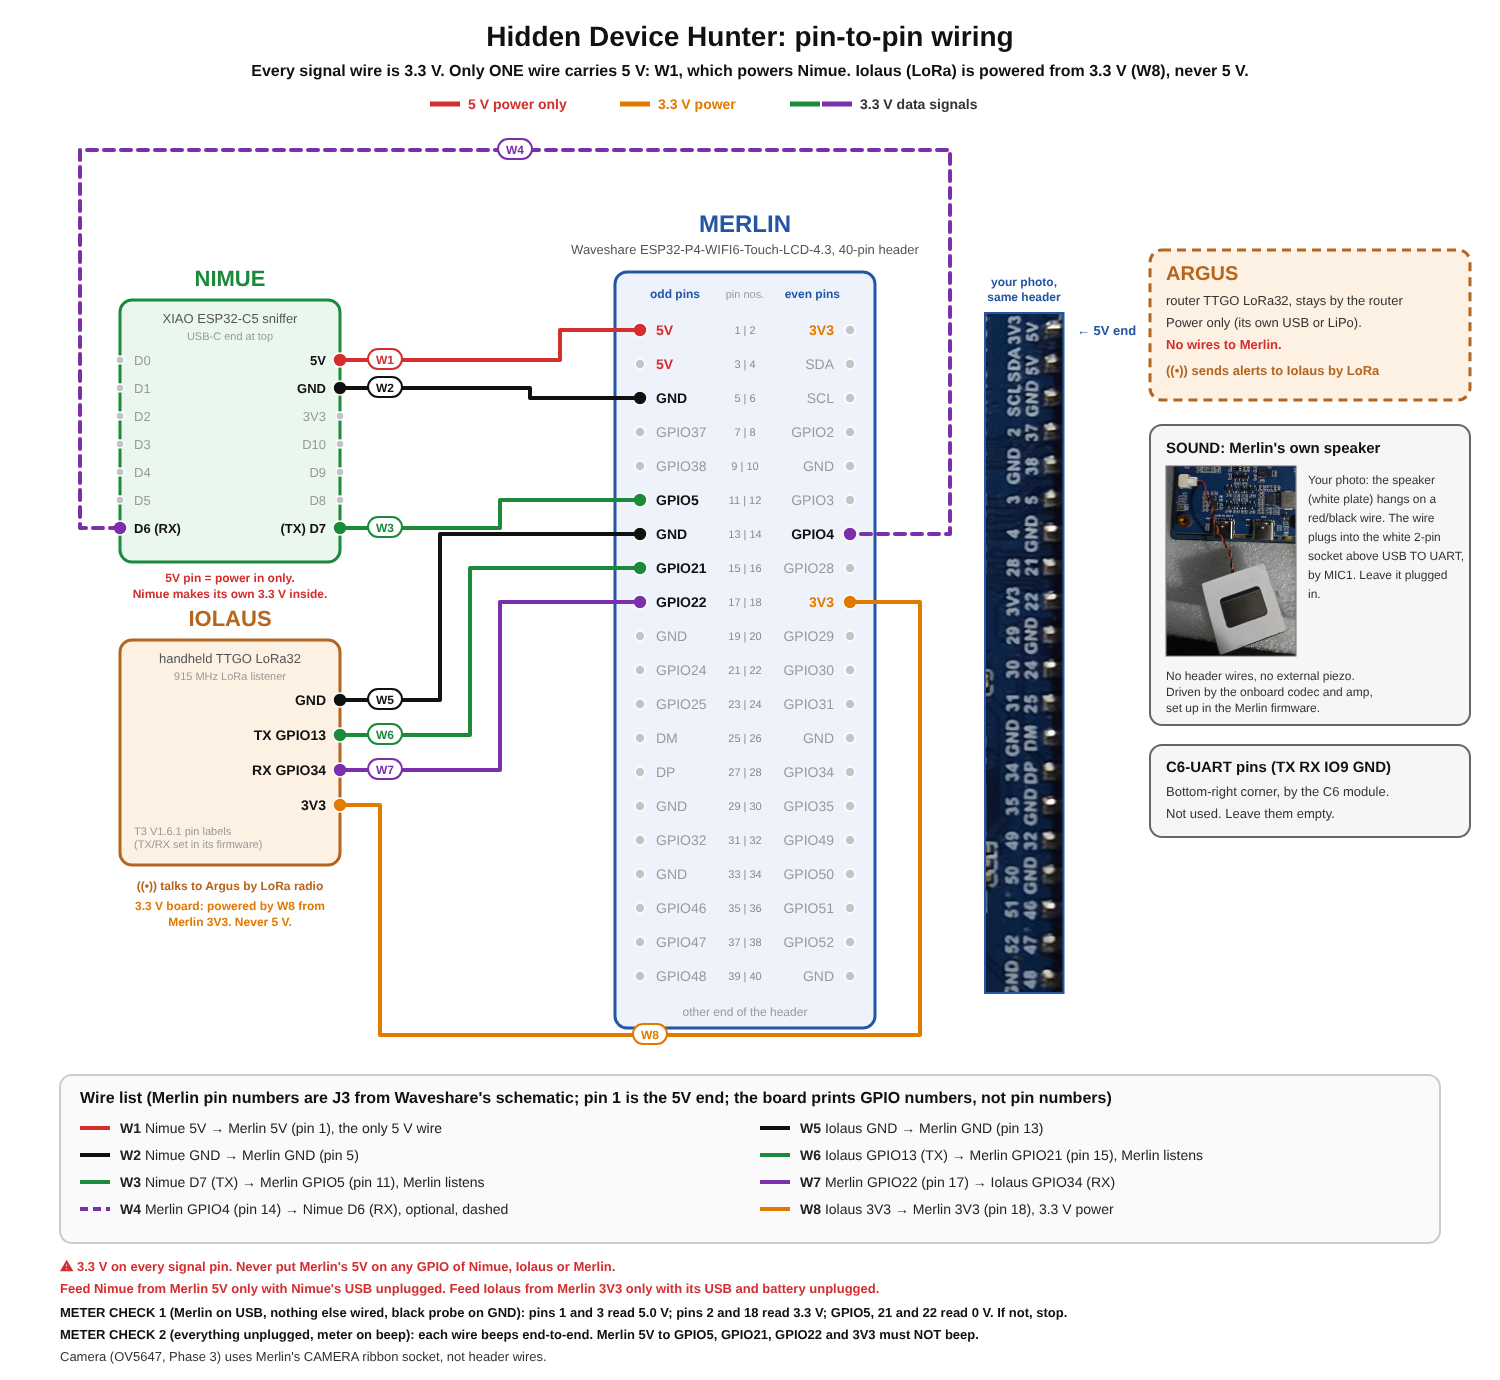
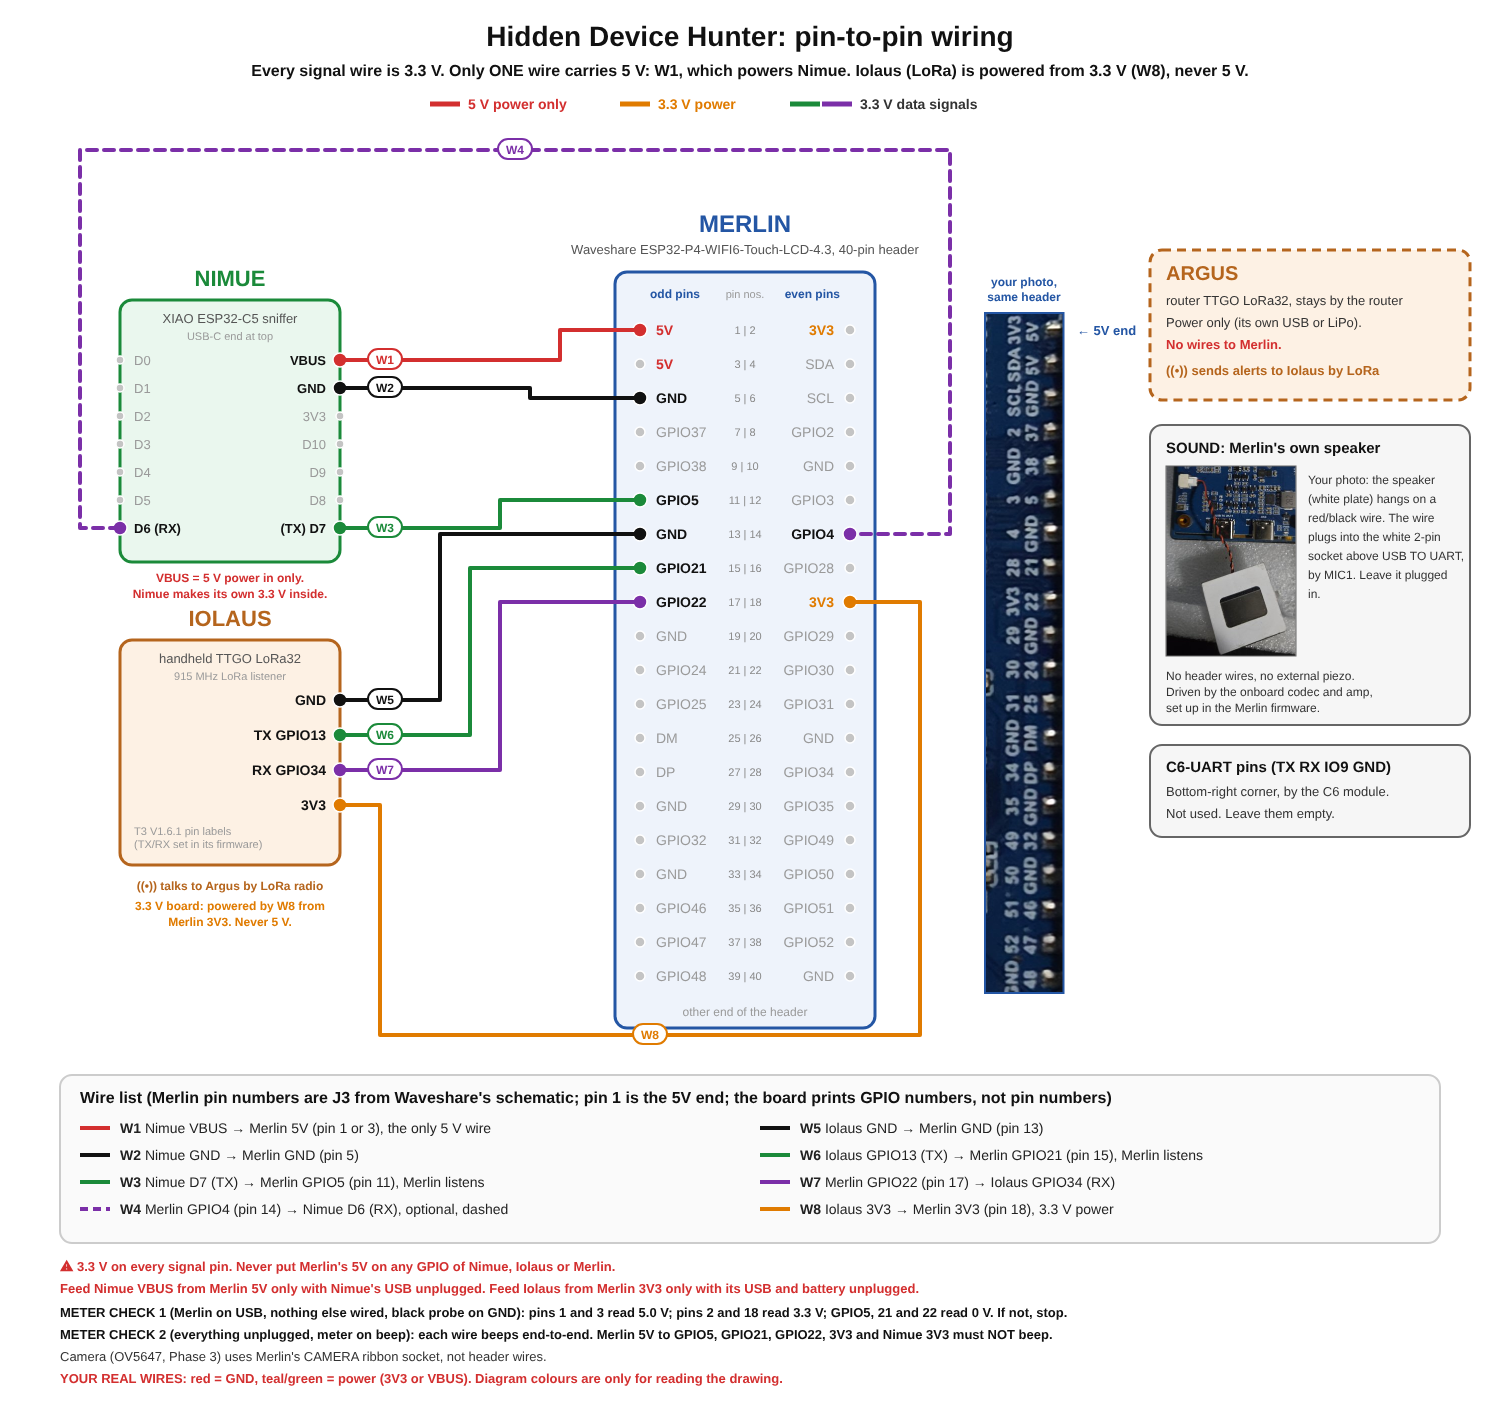
Label Nimue power pin VBUS (as printed on the C5), add real wire colour note
Claude-Session: https://claude.ai/code/session_01VtBEMtpb4Bdzu3QhNEMonw

diff --git a/tools/diagrams/merlin_wiring.py b/tools/diagrams/merlin_wiring.py
@@ -13,7 +13,7 @@ strip_jpg, spk_jpg, out = sys.argv[1:4]
 def b64(p):
     return base64.b64encode(open(p, "rb").read()).decode()
 
-W, H = 1500, 1380
+W, H = 1500, 1404
 RED, BLK, GRN, PUR, GRY = "#d32f2f", "#111111", "#1b8a3a", "#7b2fa8", "#9a9a9a"
 ORG = "#e07b00"  # 3.3 V power
 s = []
@@ -96,7 +96,7 @@ text((NX0 + NX1) / 2, 286, "NIMUE", 22, "#1b8a3a", "bold", "middle")
 text((NX0 + NX1) / 2, 323, "XIAO ESP32-C5 sniffer", 13, "#555", anchor="middle")
 text((NX0 + NX1) / 2, 340, "USB-C end at top", 11, GRY, anchor="middle")
 left = ["D0", "D1", "D2", "D3", "D4", "D5", "D6"]
-right = ["5V", "GND", "3V3", "D10", "D9", "D8", "D7"]
+right = ["VBUS", "GND", "3V3", "D10", "D9", "D8", "D7"]
 for k in range(7):
     lu = k == 6
     ru = k in (0, 1, 6)
@@ -106,7 +106,7 @@ for k in range(7):
     dot(NX1, NY[k], {0: RED, 1: BLK, 6: GRN}.get(k, "#c4c4c4"), 7 if ru else 4)
 
 wire([(NX1, NY[0]), (560, NY[0]), (560, y(0)), (AX, y(0))], RED, tag="W1", tag_at=(385, NY[0]))
-text((NX0 + NX1) / 2, 582, "5V pin = power in only.", 12, RED, "bold", "middle")
+text((NX0 + NX1) / 2, 582, "VBUS = 5 V power in only.", 12, RED, "bold", "middle")
 text((NX0 + NX1) / 2, 598, "Nimue makes its own 3.3 V inside.", 12, RED, "bold", "middle")
 wire([(NX1, NY[1]), (530, NY[1]), (530, y(2)), (AX, y(2))], BLK, tag="W2", tag_at=(385, NY[1]))
 wire([(NX1, NY[6]), (500, NY[6]), (500, y(5)), (AX, y(5))], GRN, tag="W3", tag_at=(385, NY[6]))
@@ -164,7 +164,7 @@ LY = 1075
 add(f'<rect x="60" y="{LY}" width="1380" height="168" rx="12" fill="#fafafa" stroke="#ccc" stroke-width="2"/>')
 text(80, LY + 28, "Wire list (Merlin pin numbers are J3 from Waveshare's schematic; pin 1 is the 5V end; the board prints GPIO numbers, not pin numbers)", 16, "#111", "bold")
 rows = [
-    ("W1", RED, "Nimue 5V → Merlin 5V (pin 1), the only 5 V wire"),
+    ("W1", RED, "Nimue VBUS → Merlin 5V (pin 1 or 3), the only 5 V wire"),
     ("W2", BLK, "Nimue GND → Merlin GND (pin 5)"),
     ("W3", GRN, "Nimue D7 (TX) → Merlin GPIO5 (pin 11), Merlin listens"),
     ("W4", PUR, "Merlin GPIO4 (pin 14) → Nimue D6 (RX), optional, dashed"),
@@ -180,9 +180,10 @@ for k, (tag, col, t) in enumerate(rows):
     text(cx + 40, cy, f"<tspan font-weight=\"bold\">{tag}</tspan>  {t}", 14, "#222")
 
 text(60, LY + 196, "⚠ 3.3 V on every signal pin. Never put Merlin's 5V on any GPIO of Nimue, Iolaus or Merlin.", 13, RED, "bold")
-text(60, LY + 218, "Feed Nimue from Merlin 5V only with Nimue's USB unplugged. Feed Iolaus from Merlin 3V3 only with its USB and battery unplugged.", 13, RED, "bold")
+text(60, LY + 218, "Feed Nimue VBUS from Merlin 5V only with Nimue's USB unplugged. Feed Iolaus from Merlin 3V3 only with its USB and battery unplugged.", 13, RED, "bold")
 text(60, LY + 242, "METER CHECK 1 (Merlin on USB, nothing else wired, black probe on GND): pins 1 and 3 read 5.0 V; pins 2 and 18 read 3.3 V; GPIO5, 21 and 22 read 0 V. If not, stop.", 13, "#111", "bold")
-text(60, LY + 264, "METER CHECK 2 (everything unplugged, meter on beep): each wire beeps end-to-end. Merlin 5V to GPIO5, GPIO21, GPIO22 and 3V3 must NOT beep.", 13, "#111", "bold")
+text(60, LY + 264, "METER CHECK 2 (everything unplugged, meter on beep): each wire beeps end-to-end. Merlin 5V to GPIO5, GPIO21, GPIO22, 3V3 and Nimue 3V3 must NOT beep.", 13, "#111", "bold")
 text(60, LY + 286, "Camera (OV5647, Phase 3) uses Merlin's CAMERA ribbon socket, not header wires.", 13, "#333")
+text(60, LY + 308, "YOUR REAL WIRES: red = GND, teal/green = power (3V3 or VBUS). Diagram colours are only for reading the drawing.", 13, RED, "bold")
 add("</svg>")
 open(out, "w").write("\n".join(s))

diff --git a/docs/merlin-build-guide.md b/docs/merlin-build-guide.md
@@ -11,7 +11,7 @@ Written 10-30-2026. Do the steps in order, one board at a time. Nothing here has
 
 Wiring diagram: [`manual/diagrams/merlin-four-board-wiring.svg`](manual/diagrams/merlin-four-board-wiring.svg).
 
-**Safety:** every signal wire is 3.3 V. Only one wire carries 5 V (W1, Merlin 5V to Nimue's 5V power pin). Iolaus is powered from Merlin's 3V3, never 5 V. Flash every board **before** wiring it, with nothing else connected.
+**Safety:** every signal wire is 3.3 V. Only one wire carries 5 V (W1, Merlin 5V to Nimue's VBUS pin, its 5 V power input; the board prints VBUS, Seeed's chart calls it 5V). Iolaus is powered from Merlin's 3V3, never 5 V. Flash every board **before** wiring it, with nothing else connected.
 
 ## 0. Get the code (HaLjr)
 
@@ -105,7 +105,7 @@ Follow the diagram, W1 to W8, one wire at a time:
 
 | Wire | From | To |
 |---|---|---|
-| W1 | Nimue 5V | Merlin 5V (pin 1) |
+| W1 | Nimue VBUS | Merlin 5V (pin 1 or 3) |
 | W2 | Nimue GND | Merlin GND (pin 5) |
 | W3 | Nimue D7 (TX) | Merlin GPIO5 (pin 11) |
 | W4 (optional) | Merlin GPIO4 (pin 14) | Nimue D6 (RX): lets the screen's mode buttons work |
